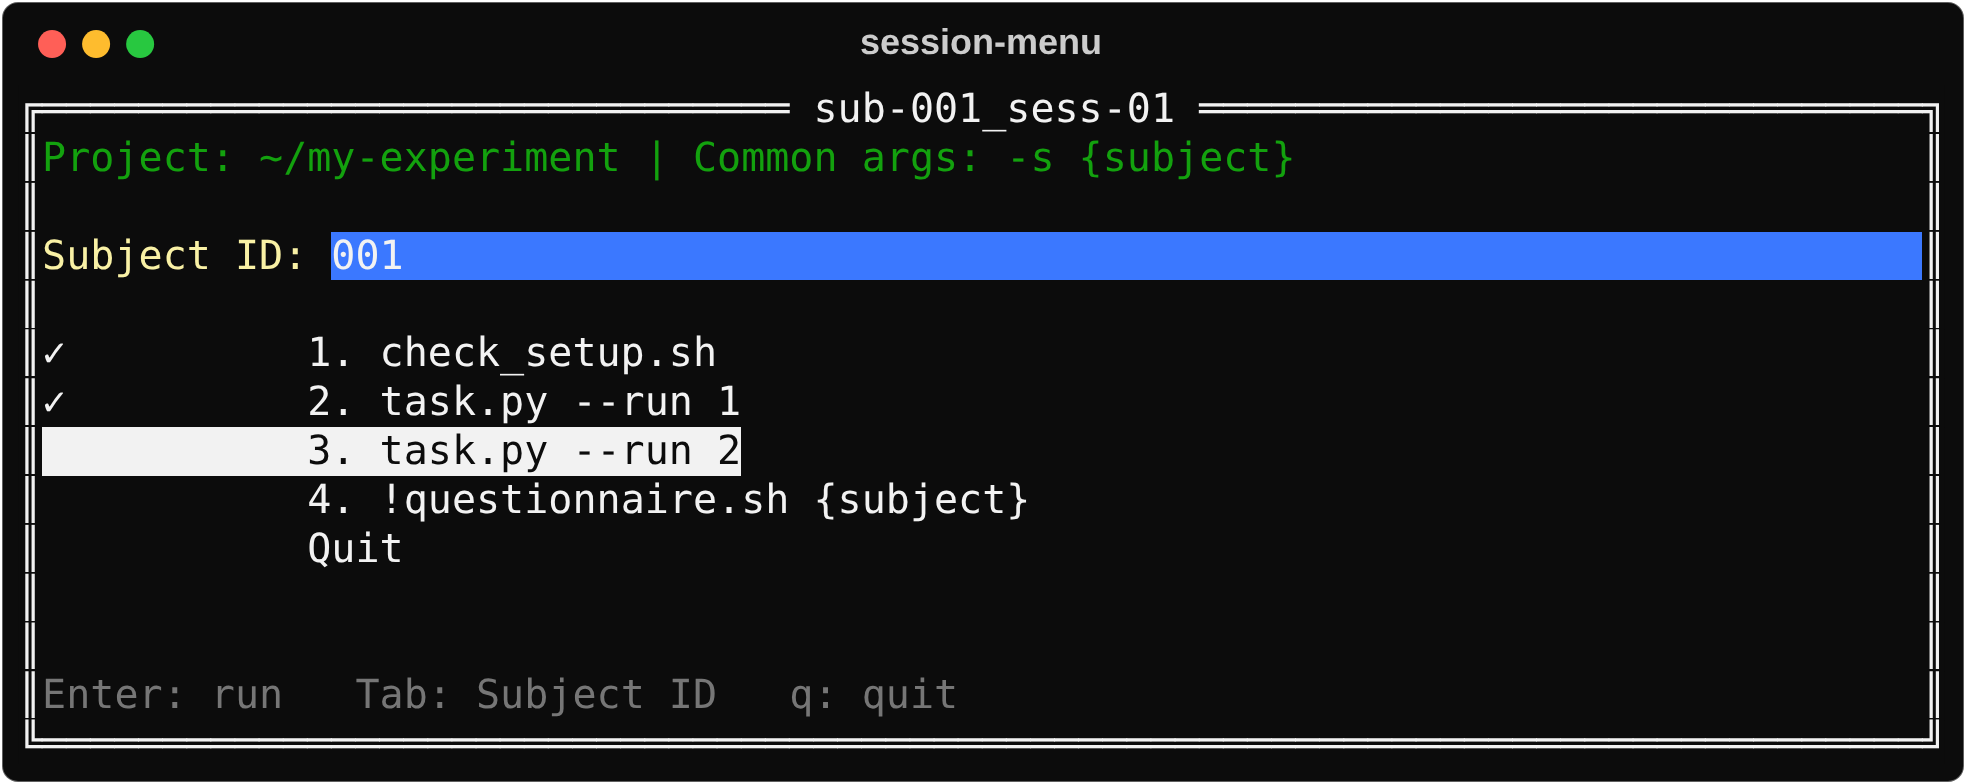
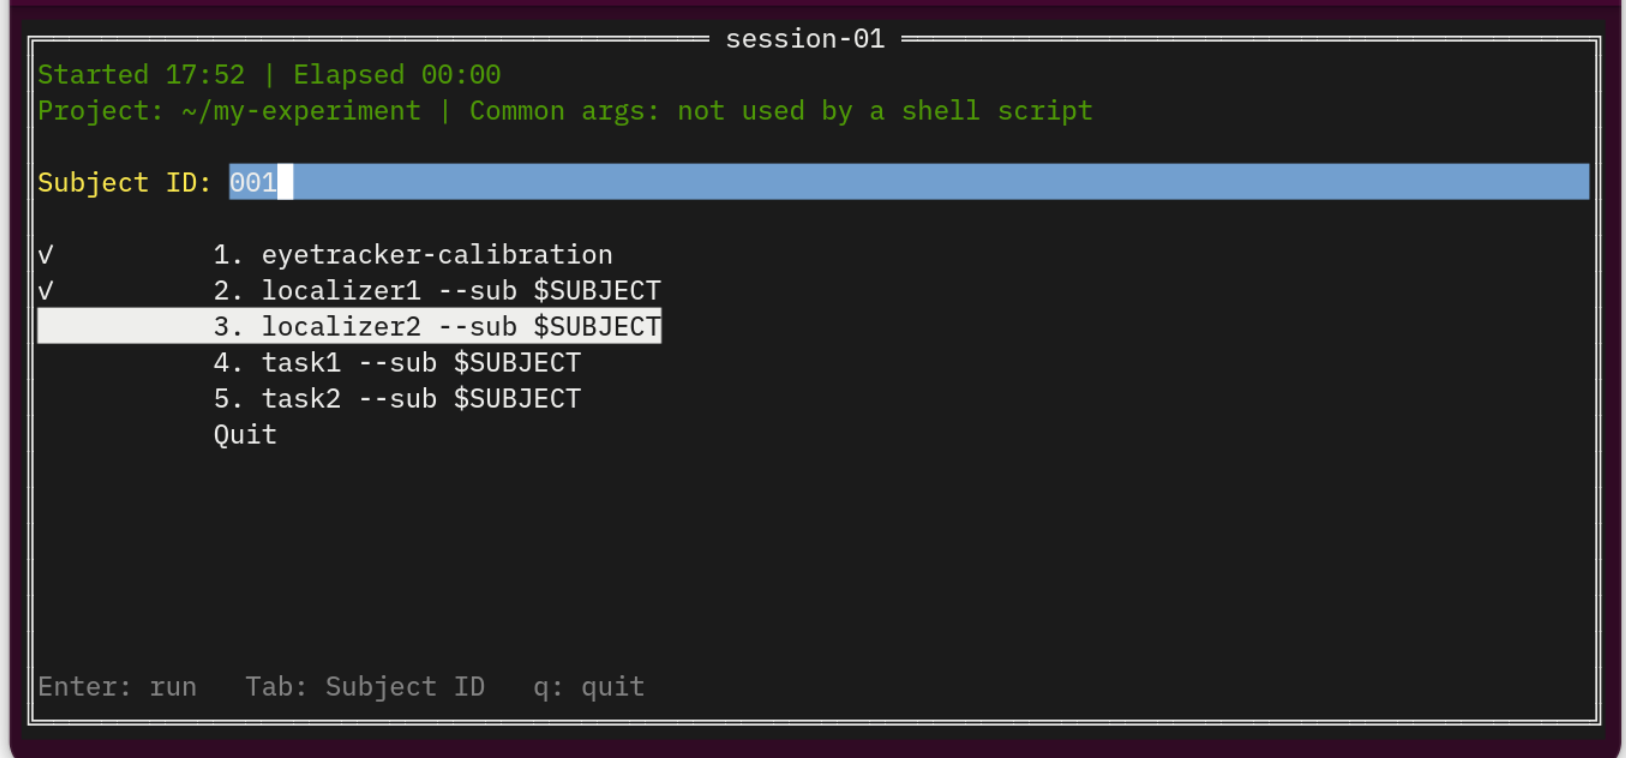
README: compare text and shell session files; new screenshot
The intro shows session-01.sh with its "# runs" line, then the same
session as a text file, so Windows users see their format too. The
screenshot shows that session.

"Session files" starts with a table comparing .txt and .sh session
files. command_line_args.txt is marked as applying to .txt files only,
and a new subsection shows how a shell script loads per-PC settings
(". ./this-pc.sh || exit 1": without the guard, bash goes on when the
file is missing).

Changed region(s): [[0.0, 0.0, 1.0, 1.0]]

diff --git a/README.md b/README.md
@@ -7,13 +7,14 @@ sequence of _runs_ of data acquisition. For each run, a program is launched to d
 acquire data, etc.
 
 One way to handle this is to write one script per session, e.g. `session-01.sh`, `session-02.sh`, or
-`sub-001_sess-01.sh`…, which lists the programs to launch, in order. For example:
+`sub-001_sess-01.sh`…, listing the programs to launch, in order. Here is an example of such a script:
 
 ```sh
 #!/bin/bash
 # session-01.sh
-SUBJECT=${SUBJECT:-${1:-000}}   # participant ID
+SUBJECT=${SUBJECT:-${1:-000}}   # participant ID: $SUBJECT, else the first argument
 
+# runs
 eyetracker-calibration
 localizer1 --sub $SUBJECT
 localizer2 --sub $SUBJECT
@@ -21,31 +22,32 @@ task1 --sub $SUBJECT
 task2 --sub $SUBJECT
 ```
 
-(Several participants can do this session: the environment variable `SUBJECT`, or the first argument
-of the script, gives the participant ID.)
+The comment `# runs` tells session-menu where the runs start: each command below it becomes an entry of
+the menu. Being a comment, it changes nothing when the script runs on its own.
 
-Add the line `# runs` above the commands, and session-menu turns this script into a menu:
+On Windows, or if you don't write shell scripts, the same session is a plain list of commands,
+`session-01.txt`. session-menu finds the programs in `bin/` (`.exe`, `.bat`, `.py`…) and fills in the
+Subject ID:
 
-```sh
-#!/bin/bash
-# session-01.sh
-SUBJECT=${SUBJECT:-${1:-000}}   # participant ID
-
-# runs
+```
 eyetracker-calibration
-localizer1 --sub $SUBJECT
-...
+localizer1 --sub {subject}
+localizer2 --sub {subject}
+task1 --sub {subject}
+task2 --sub {subject}
 ```
 
+If you run:
 ```
-session-menu session-01.sh
+session-menu session-01.sh      # or session-01.txt
 ```
 
-Before the session starts, session-menu checks that every program can be found. The experimenter types
-the participant ID once, then starts each run from the menu, which shows a timer and which runs are
-done:
+session-menu checks that every program can be found before the session
+starts. It opens a text user interface. The experimenter types the
+participant ID once, then starts each run from the menu, which shows a
+timer and which runs are done:
 
-![session-menu running the session sub-001_sess-01 of project1: the first two programs are done (✓), the cursor is on the third](images/screenshot.png)
+![session-menu running session-01.sh for subject 001: runs 1 and 2 are done (✓), the cursor is on run 3](images/screenshot.png)
 
 The program works on Linux, Windows and macOS. Source code, releases and issues: <https://github.com/chrplr/session-menu>
 
@@ -105,7 +107,7 @@ The project folder may hold:
 |---|---|
 | `bin/` | Programs, looked up before the PATH (for `.txt` session files; a shell script does not search it) |
 | `sessions/` | Session files (`*.txt`, or shell scripts `*.sh`), listed by the menu to choose from |
-| `command_line_args.txt` | Arguments given to every program (optional; see below) |
+| `command_line_args.txt` | Arguments given to every program of a `.txt` session file (optional; see below) |
 | `.last_subject.txt` | The last subject ID, written by the menu |
 | `session-menu-log.csv` | The log of the runs, written by the menu (see below) |
 
@@ -120,12 +122,27 @@ current folder, then in the project folder.
 
 ## Session files
 
-There are two kinds of session files:
+There are two kinds of session files. In a `.txt` file, session-menu builds the command lines. In a
+`.sh` file, the shell builds them, and session-menu does not change your commands: it lists, checks,
+runs, logs and marks them.
 
-- **`*.txt`**: one command per line, without shell syntax. Start with these: the programs are looked
-  up in `bin/`, and they get the arguments of `command_line_args.txt` and the Subject ID (`{subject}`).
-- **`*.sh`**: shell scripts, as in the example above. Use them if you already have scripts, or need
-  variables and shell syntax. See [Session files that are shell scripts](#session-files-that-are-shell-scripts).
+| | `.txt` session file | `.sh` session file |
+|---|---|---|
+| Who builds the command lines | session-menu | the shell |
+| Programs of `bin/` | looked up before the PATH | not searched: write `bin/task.py` |
+| `command_line_args.txt` | added to every line | not used: [a per-PC file](#settings-that-differ-between-pcs) instead |
+| Subject ID | `{subject}`, and `$SUBJECT` in the environment | `$SUBJECT` |
+| Shell syntax (variables, pipes, `if`…) | no | yes |
+| Checked before the session | every program | the settings, and the first word of each command |
+| On Windows | as is (`.exe`, `.bat`, `.cmd`, `.py`) | needs Git Bash or similar |
+| Runs without the menu | no | yes (`bash session-01.sh`) |
+
+Start with `.txt` files if you are new to this, or if the session must run on Windows without Git Bash.
+Use `.sh` files if you already have scripts, or need shell syntax; see
+[Session files that are shell scripts](#session-files-that-are-shell-scripts).
+
+In both, if the file name starts with `sub-<ID>` (up to the first `_` or `.`), the Subject ID field is
+pre-filled with `<ID>`, as written (`sub-001` gives `001`).
 
 A `.txt` session file is an ordinary text file, with one command per line: a program, then its options.
 Blank lines and lines starting with `#` are ignored. The options are split as in a shell: quotes and
@@ -143,8 +160,6 @@ MEG-ARC -run 2
 - Each program is looked up first in `bin/`, then in the PATH.
 - A line starting with `!` is run as written: it does not get the arguments of
   `command_line_args.txt`. Use it for programs that would refuse them, such as `track` above.
-- If the file name starts with `sub-<ID>` (up to the first `_` or `.`), the Subject ID field is
-  pre-filled with `<ID>`, as written (`sub-001` gives `001`).
 
 Without a session file on the command line, the menu lists the `*.txt` and `*.sh` files of `sessions/`
 to choose from. If there are none, it lists every program of `bin/`, in alphabetical order.
@@ -206,7 +221,7 @@ uv run fmri-play --subject $SUBJECT --rig "$RIG" --run 2 \
   ```
 
   A program that an earlier entry creates would be refused, as it does not exist yet.
-- `command_line_args.txt` and `{subject}` do not apply: use variables, and `$SUBJECT`.
+- `command_line_args.txt` and `{subject}` do not apply: use variables (see below), and `$SUBJECT`.
 
 **Write the subject as `SUBJECT=${SUBJECT:-sub-01}`.** It takes the Subject ID of the menu, and `sub-01`
 when the script runs on its own. A plain `SUBJECT=sub-01` would replace the ID typed in the menu, and the
@@ -216,7 +231,30 @@ the entry `✗ exit 3`.
 The terminal shows each command with its values (`+ uv run fmri-play --subject 002 ...`). The log and
 `-print` have it as written in the script (`--subject $SUBJECT`).
 
+### Settings that differ between PCs
+
+The settings above `# runs` can load a file of each PC, kept next to the shared session files:
+
+```sh
+#!/bin/sh
+SUBJECT=${SUBJECT:-sub-01}
+. ./this-pc.sh || exit 1    # e.g. COMMON="-s $SUBJECT -d 1 -ttl parallel:/dev/parport1"
+
+# runs
+task1 $COMMON --run 1
+task2 $COMMON --run 1
+```
+
+The arguments stay visible in each command, and the script works the same without the menu. Keep
+`|| exit 1`: without it, `bash` goes on when `this-pc.sh` is missing, and the runs start without the
+PC's arguments. With it, the menu refuses the session. `./` makes the path relative to the project
+folder, where the settings run. `$COMMON` is split on blanks, so its values cannot contain any; with
+`bash`, an array (`COMMON=(-d 1 --name "my rig")`, then `"${COMMON[@]}"`) keeps them.
+
 ## Arguments common to every program
+
+For `.txt` session files only: a shell script builds its own command lines (see
+[Settings that differ between PCs](#settings-that-differ-between-pcs)).
 
 The words of `command_line_args.txt`, if the file exists, are inserted **right after the program** of
 every line, except the lines that start with `!`. They are split as the session lines, may span
